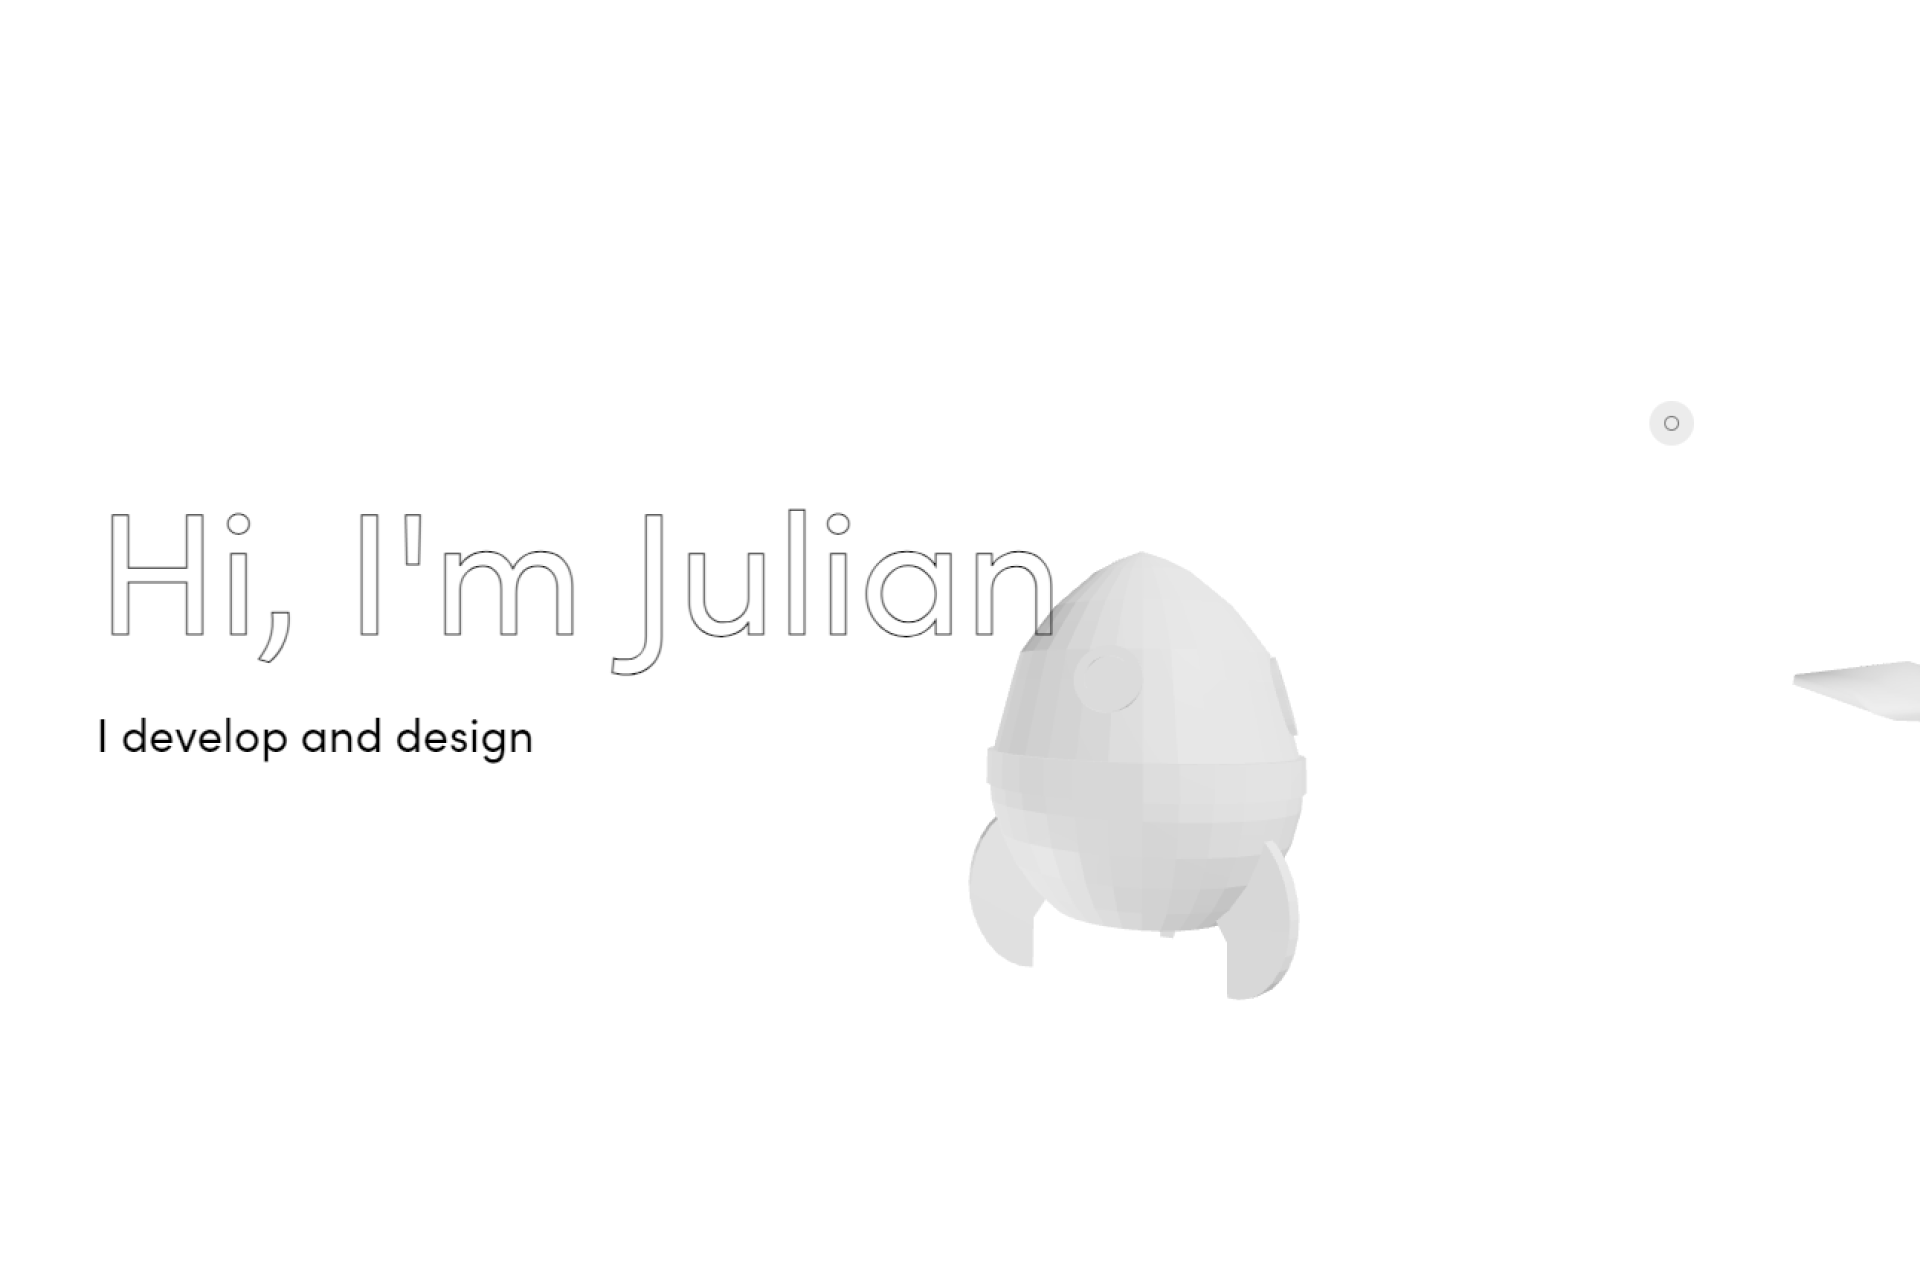
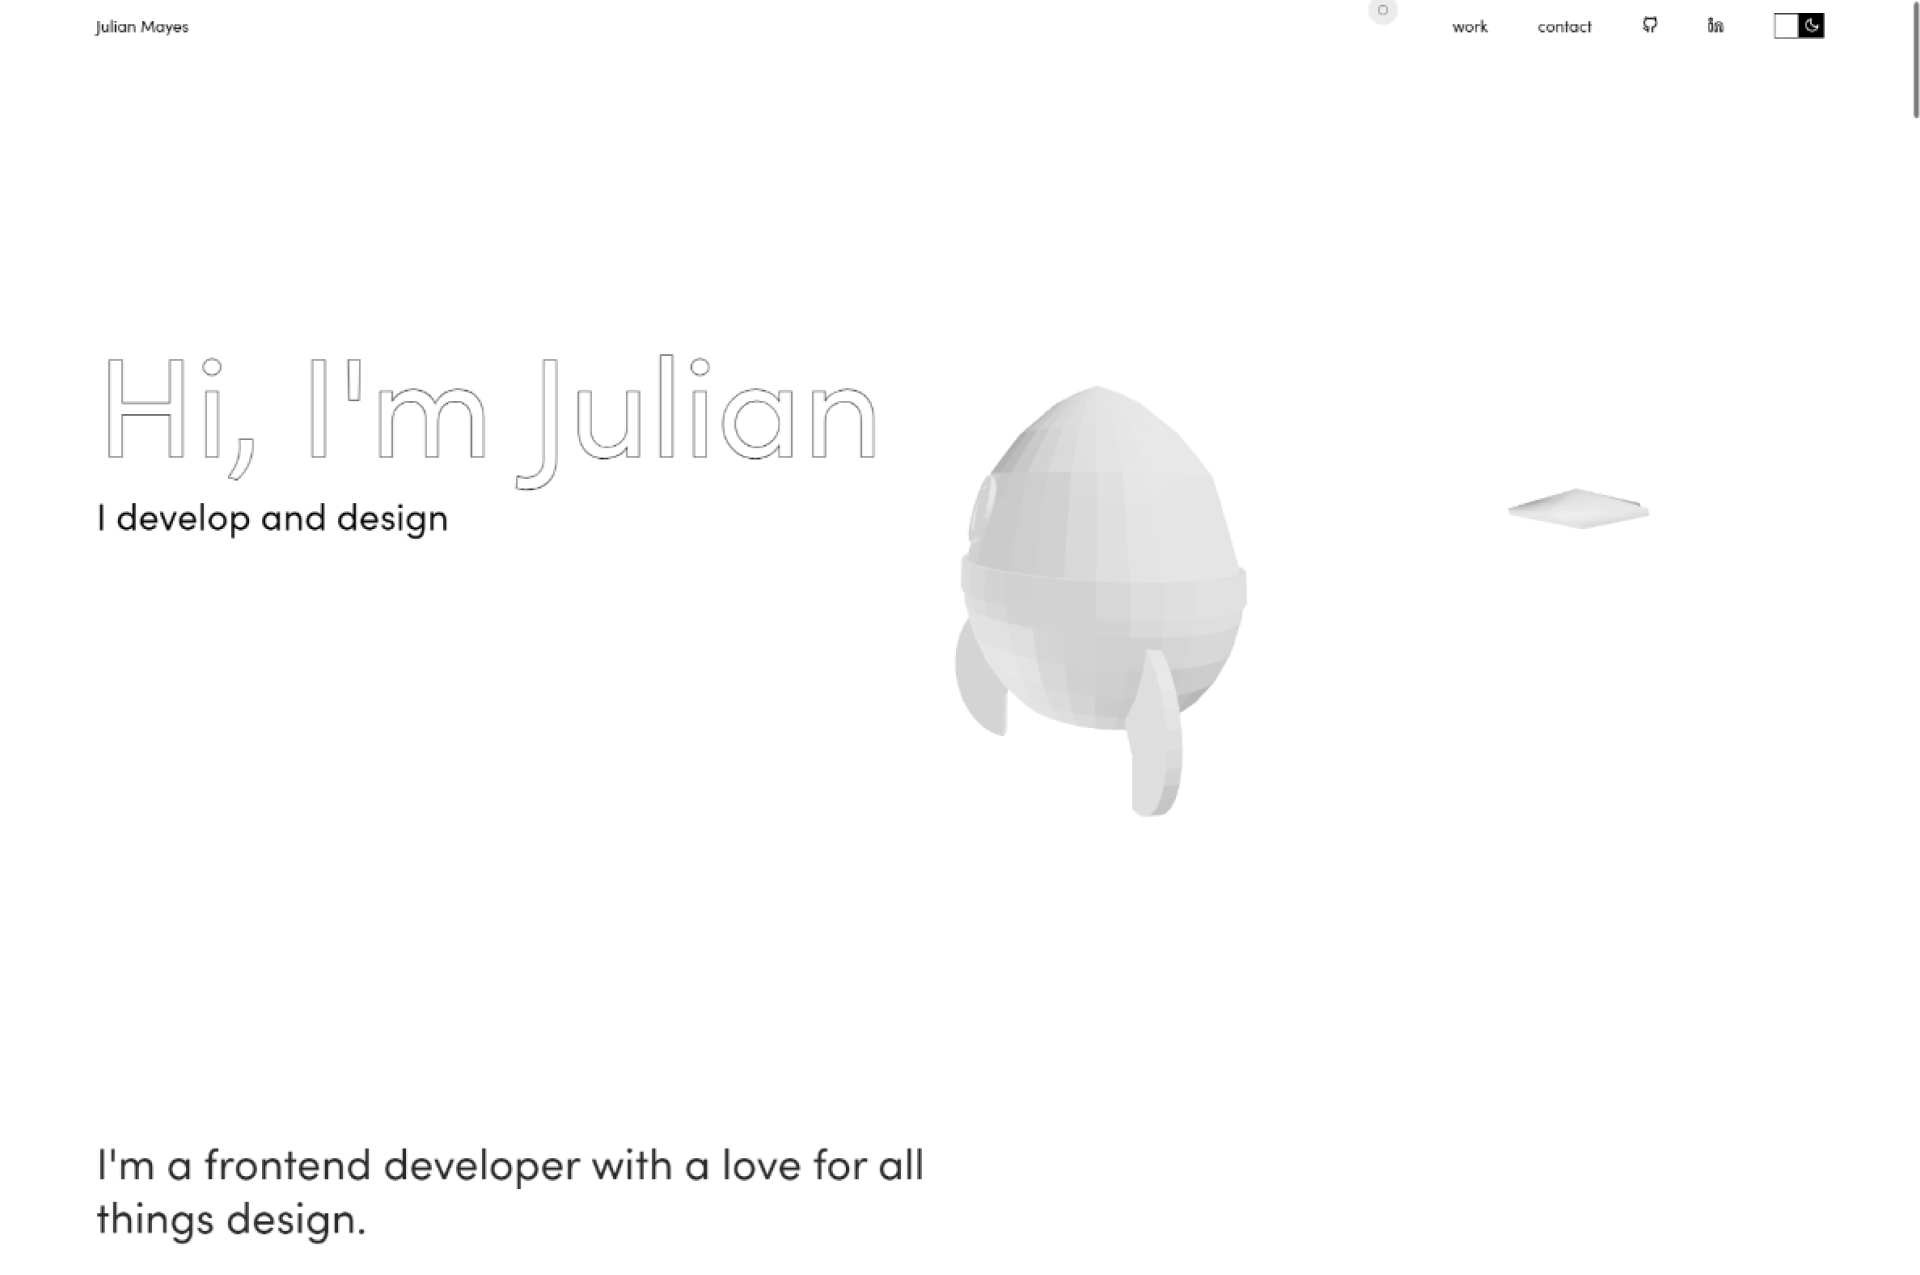
wow

diff --git a/pages/index.js b/pages/index.js
@@ -1,3 +1,4 @@
+import { Button } from "@/components/Button/Button";
 import { Column } from "@/components/Container/Column";
 import { Container } from "@/components/Container/Container";
 import { Grid } from "@/components/Grid/Grid";
@@ -15,7 +16,7 @@ import { useTheme } from "@/utils/provider";
 import Link from "next/link";
 import { useRouter } from "next/router";
 import { useEffect } from "react";
-import { ArrowRightCircle, Instagram, Linkedin, Mail } from "react-feather";
+import { ArrowRightCircle, GitHub, Instagram, Linkedin, Mail } from "react-feather";
 
 export default function Home() {
   const { theme, setTheme } = useTheme();
@@ -32,12 +33,13 @@ export default function Home() {
           transition={{ duration: 0.5, delay: 0.1 }}
           xl="grid-area: area-1;"
         >
-          <H1 xl="margin-bottom: 20px;">Hi, I'm Julian</H1>
-          <Text>
+          <H1 xl="margin-bottom: 10px;">Hi, I'm Julian</H1>
+          <Text xl="margin-bottom: 20px;">
             A web developer and designer based in Vancouver, BC. This website is
             a playground to showcase what I have been working on. Thanks for
             visiting 🚀
           </Text>
+          <Button href="mailto:julianmayes@gmail.com">Contact Me</Button>
         </Tile>
         <Tile
           transition={{ duration: 0.5, delay: 0.2 }}
@@ -61,8 +63,8 @@ export default function Home() {
               </Link>
             </Container>
             <Container>
-              <Link href="mailto:julianmayes@gmail.com">
-                <Mail />
+              <Link href="https://github.com/julianmayes" target="_blank">
+                <GitHub />
               </Link>
             </Container>
           </Container>
@@ -101,11 +103,11 @@ export default function Home() {
           headline="Blog"
           text="Coming Soon"
           transition={{ duration: 0.5, delay: 0.3 }}
-          xl="grid-area: area-7; align-items: center;"
+          xl="grid-area: area-7; align-items: center; color: grey;"
         />
         <Tile
           headline="About Me"
-          text="Allow me to reintroduce myself"
+          text="Allow me to introduce myself"
           star
           transition={{ duration: 0.5, delay: 0.4 }}
           clickable

diff --git a/pages/projects.js b/pages/projects.js
@@ -110,10 +110,23 @@ export default function Home() {
           </Tile>
 
           <Tile
+            headline="Cowboy Interactive"
+            clickable
+            url="/images/cowboy.png"
             transition={{ ease: "linear", duration: 0.5, delay: 0.5 }}
             xl="grid-area: area-3; padding: 0;"
+            onClick={() => {
+              window.open("https://www.cowboyinteractive.com/", "_ blank");
+            }}
           >
-            <StarScene />
+            <Text xl="margin-bottom:20px; max-width: 350px; text-align: center;">
+              Custom web development service
+            </Text>
+            <Container>
+              <Item>Next JS</Item>
+              <Item>Three JS</Item>
+              <Item>Framer Motion</Item>
+            </Container>
           </Tile>
           <Tile
             transition={{ ease: "linear", duration: 0.5, delay: 0.1 }}
@@ -184,7 +197,10 @@ export default function Home() {
 
           <Tile
             onClick={() => {
-              window.open("https://julian-mayes-portfolio-n1gvg7mkm-cre8rec.vercel.app/", "_ blank");
+              window.open(
+                "https://julian-mayes-portfolio-n1gvg7mkm-cre8rec.vercel.app/",
+                "_ blank"
+              );
             }}
             url="/images/portfolio.png"
             headline="Portfolio V1"

diff --git a/pages/about.js b/pages/about.js
@@ -25,6 +25,7 @@ import {
   ArrowLeftCircle,
   ArrowRight,
   ArrowRightCircle,
+  GitHub,
   Instagram,
   Linkedin,
   Mail,
@@ -100,7 +101,7 @@ export default function Home() {
             <H2 xl="margin-bottom: 20px;">Hello 👋</H2>
             <Text>
               My name is Julian, and I make websites. I love music, photography,
-              and web development. My tools include Next JS, React Three Fiber,
+              and web development. My main tools include Next JS, Three JS,
               and Framer Motion. While I use Figma and Blender for design. I am
               always open to collaborate. So don't be afraid to get in touch!
             </Text>
@@ -140,8 +141,8 @@ export default function Home() {
                 </Link>
               </Container>
               <Container>
-                <Link href="mailto:julianmayes@gmail.com">
-                  <Mail />
+                <Link href="https://github.com/julianmayes" target="_blank">
+                  <GitHub />
                 </Link>
               </Container>
             </Container>
